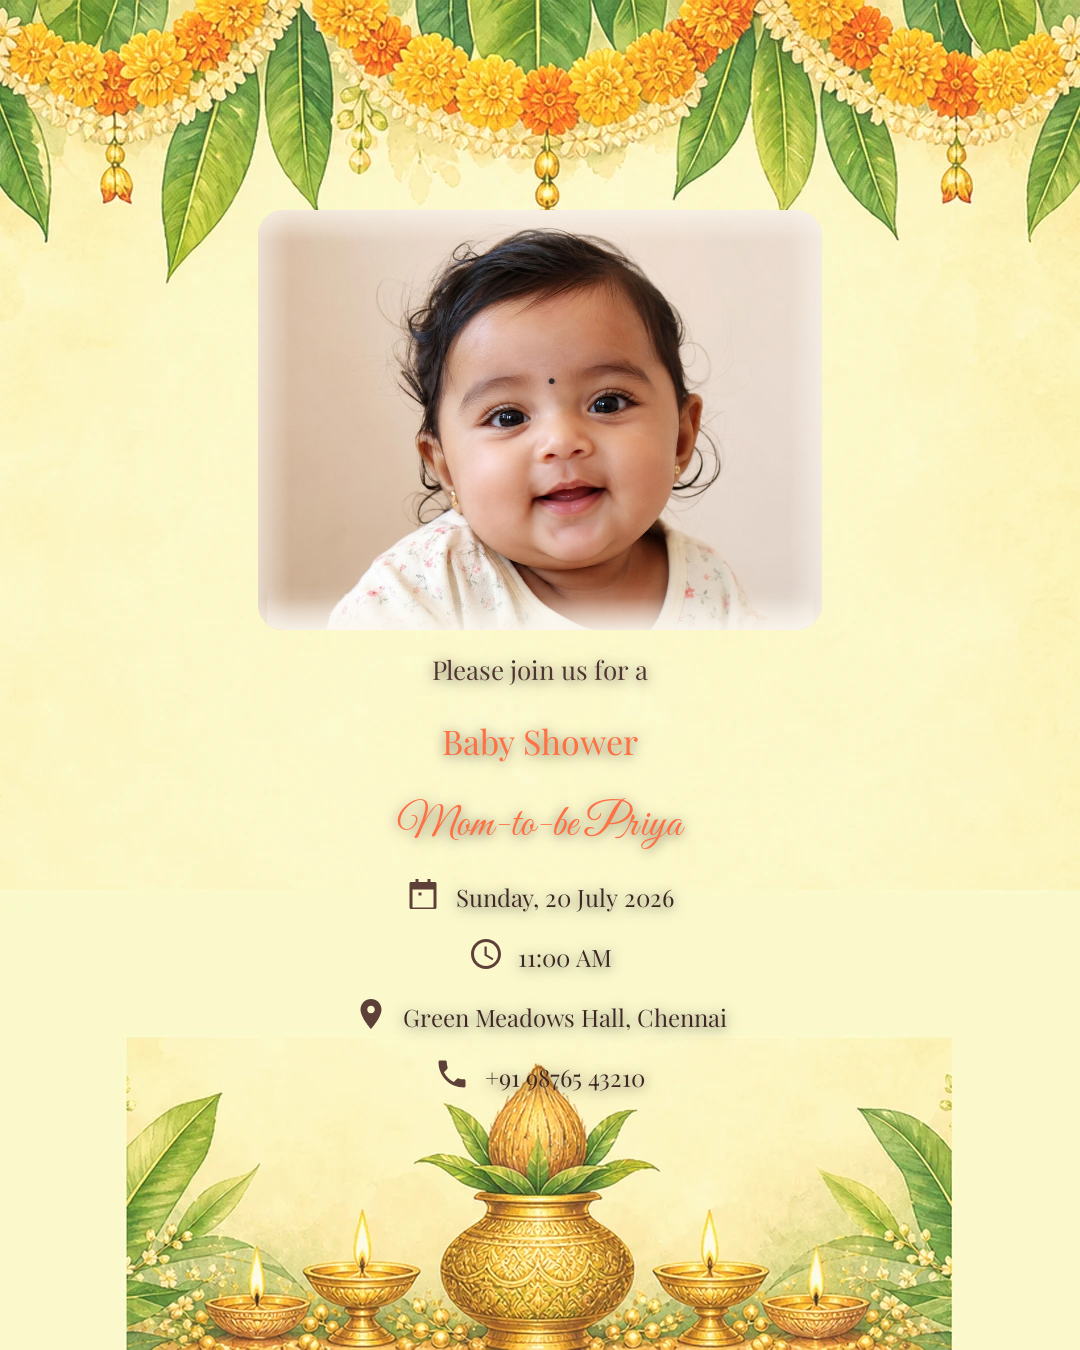
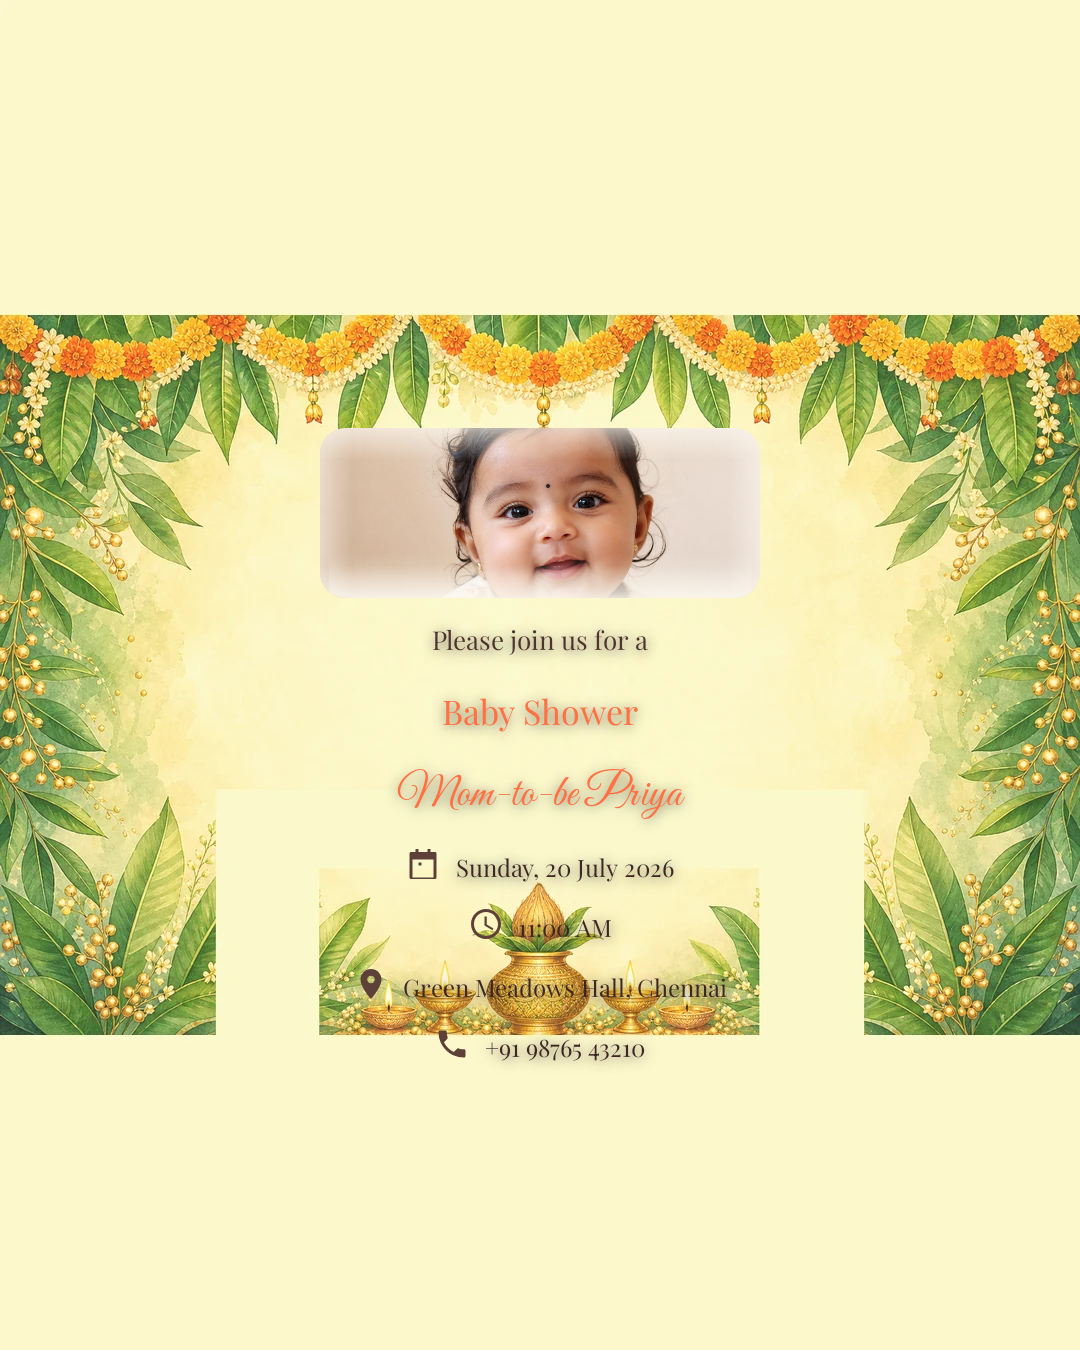
Fix baby shower WebP conversion: width-fit letterbox, no crop/stretch
Same fix as PR 66 — avoid center-cover and stretched décor bands that
broke templates. Regenerate babyshower WebPs and restore layout coords.

diff --git a/app/src/main/java/com/vaangainvite/core/image/PhotoCardPlacement.kt b/app/src/main/java/com/vaangainvite/core/image/PhotoCardPlacement.kt
@@ -18,8 +18,8 @@ internal object PhotoCardPlacement {
         val cornerRadius: Float = 26f
     )
 
-    /** Portrait slot on full-bleed 1080×1350 WebPs (center-cover conversion, no letterbox). */
-    private val traditionalPhoto = RectF(258f, 210f, 822f, 630f)
+    /** Measured on width-fit WebPs with cream letterbox (1080×1350). */
+    private val traditionalPhoto = RectF(320f, 428f, 760f, 598f)
 
     private val templateIds = (1..5).flatMap { i ->
         listOf(

diff --git a/app/src/main/java/com/vaangainvite/core/image/InvitationLayout.kt b/app/src/main/java/com/vaangainvite/core/image/InvitationLayout.kt
@@ -41,10 +41,10 @@ internal object InvitationLayout {
     private val photoCardTextZone = TextZoneSpec(
         left = 200f,
         right = 880f,
-        topNoPhoto = 638f,
-        topWithPhoto = 648f,
-        bottom = 1125f,
-        messageBottom = 1088f,
+        topNoPhoto = 608f,
+        topWithPhoto = 618f,
+        bottom = 1105f,
+        messageBottom = 1068f,
         photoTextGap = 14f
     )
 

diff --git a/tools/convert_photo_backgrounds.py b/tools/convert_photo_backgrounds.py
@@ -9,23 +9,8 @@ from pathlib import Path
 from PIL import Image, ImageDraw
 
 TARGET_W = 1080
-# Cream band where the app draws event copy (below arch photo opening).
-# Plain band where the app draws copy (keeps décor at top/bottom edges only).
 TEXT_BAND = (210, 442, 870, 1012)
 TARGET_H = 1350
-TARGET_RATIO = TARGET_W / TARGET_H
-
-
-def crop_center_cover(im: Image.Image, target_ratio: float) -> Image.Image:
-    w, h = im.size
-    current = w / h
-    if current > target_ratio:
-        new_w = int(h * target_ratio)
-        left = (w - new_w) // 2
-        return im.crop((left, 0, left + new_w, h))
-    new_h = int(w / target_ratio)
-    top = (h - new_h) // 2
-    return im.crop((0, top, w, top + new_h))
 
 
 def sample_edge_color(im: Image.Image) -> tuple[int, int, int]:
@@ -38,19 +23,27 @@ def sample_edge_color(im: Image.Image) -> tuple[int, int, int]:
 
 
 def fit_portrait_card(im: Image.Image) -> Image.Image:
-    """Scale to cover 1080×1350 — full-bleed card with no top/bottom letterbox bars."""
+    """
+    Scale landscape art to full card width (side borders stay visible).
+    Letterbox top/bottom with cream sampled from the panel — no crop, no stretch.
+    """
     w, h = im.size
-    scale = max(TARGET_W / w, TARGET_H / h)
-    new_w = max(1, int(w * scale))
+    scale = TARGET_W / w
+    new_w = TARGET_W
     new_h = max(1, int(h * scale))
-    im = im.resize((new_w, new_h), Image.Resampling.LANCZOS)
-    left = (new_w - TARGET_W) // 2
-    top = (new_h - TARGET_H) // 2
-    return im.crop((left, top, left + TARGET_W, top + TARGET_H))
+    scaled = im.resize((new_w, new_h), Image.Resampling.LANCZOS)
+
+    if new_h >= TARGET_H:
+        top = (new_h - TARGET_H) // 2
+        return scaled.crop((0, top, TARGET_W, top + TARGET_H))
+
+    fill = sample_edge_color(scaled)
+    out = Image.new("RGB", (TARGET_W, TARGET_H), fill)
+    out.paste(scaled, (0, (TARGET_H - new_h) // 2))
+    return out
 
 
 def sample_panel_color(im: Image.Image) -> tuple[int, int, int]:
-    """Pick a neutral fill from the panel beside the arch (avoids gold frame pixels)."""
     x, y = im.width // 2, int(im.height * 0.36)
     patch = im.crop((x - 20, y - 20, x + 20, y + 20))
     pixels = list(patch.get_flattened_data() if hasattr(patch, "get_flattened_data") else patch.getdata())
@@ -59,7 +52,6 @@ def sample_panel_color(im: Image.Image) -> tuple[int, int, int]:
 
 
 def clear_placeholder_text(im: Image.Image) -> Image.Image:
-    """Remove AI placeholder wording so only app-rendered text appears."""
     fill = sample_panel_color(im)
     out = im.copy()
     ImageDraw.Draw(out).rectangle(TEXT_BAND, fill=fill)
